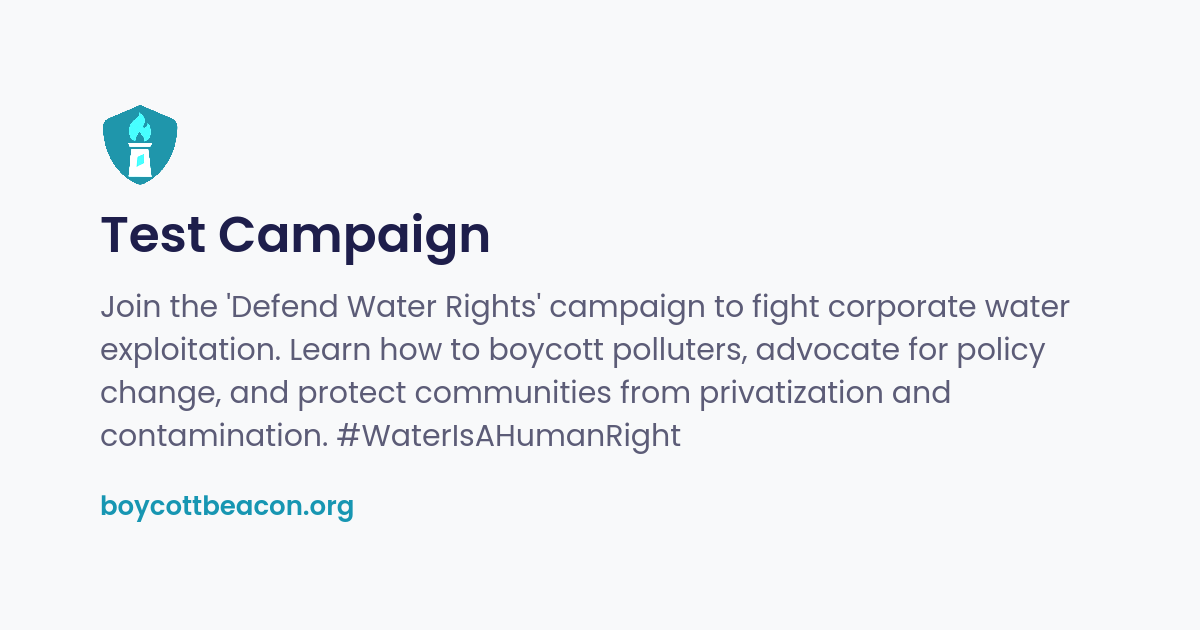
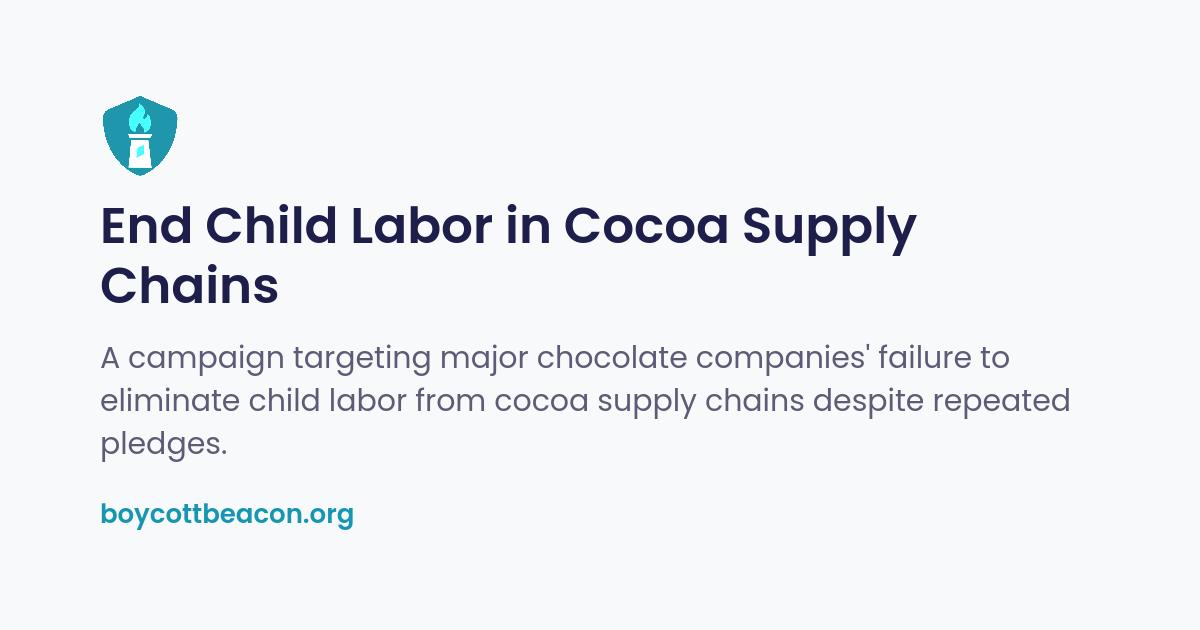
Update campaign.json

diff --git a/themes/boycott-beacon/layouts/campaigns/single.html b/themes/boycott-beacon/layouts/campaigns/single.html
@@ -161,7 +161,6 @@
             </div>
           </div>
         </div>
-
         <!-- Campaign Author -->
         {{ if .Params.author }}
         <div class="author-card mb-4">
@@ -170,7 +169,7 @@
               <h5 class="card-title mb-3">Campaign Author</h5>
               <div class="d-flex align-items-center mb-3">
                 {{ if .Params.author_image }}
-                <img src="{{ .Params.author_image | absURL }}"
+                <img src="{{ .Params.author_image }}"
                      class="rounded-circle mr-3"
                      width="60"
                      height="60"
@@ -187,7 +186,7 @@
               {{ if .Params.author_socials }}
               <div class="social-links mt-2">
                 {{ range .Params.author_socials }}
-                <a href="{{ .link }}" target="_blank" class="btn btn-sm btn-outline-secondary mr-2 mb-2">
+                <a href="{{ .link }}" target="_blank" rel="noopener noreferrer" class="btn btn-sm btn-outline-secondary mr-2 mb-2">
                   <i class="ti-{{ .platform }}"></i> {{ .name }}
                 </a>
                 {{ end }}
@@ -198,42 +197,51 @@
         </div>
         {{ end }}
 
-        <!-- Supporting Organizations -->
+        <!-- Supporting Organizations (Handling Multiple Orgs) -->
         {{ if .Params.supporting_orgs }}
-        <div class="orgs-card">
+        <div class="orgs-card mb-4"> <!-- Consistent spacing -->
           <div class="card border-0 shadow-sm">
             <div class="card-body p-4">
               <h5 class="card-title mb-3">Supported By</h5>
-              <div class="orgs-list">
-                {{ range .Params.supporting_orgs }}
-                <div class="org-item mb-3">
-                  {{ if .logo }}
-                  <img src="{{ .logo | absURL }}"
-                       class="img-fluid mb-2"
-                       style="max-height: 40px;"
-                       alt="{{ .name }}">
+              <!-- Loop through each organization -->
+              {{ range $index, $org := .Params.supporting_orgs }}
+              <!-- Add separator for items after the first -->
+              <div class="org-item {{ if gt $index 0 }}mt-4 pt-4 border-top{{ end }}">
+                <!-- Use d-flex similar to author -->
+                <div class="d-flex align-items-center mb-3">
+                  {{ if $org.logo }}
+                  <img src="{{ $org.logo }}"
+                       class="mr-3 org-logo"
+                       style="max-width: 80px; max-height: 60px; object-fit: contain;"
+                       alt="{{ $org.name }}">
                   {{ end }}
-                  <h6 class="mb-1">{{ .name }}</h6>
-                  <div class="org-links">
-                    {{ if .website }}
-                    <a href="{{ .website }}" target="_blank" class="btn btn-sm btn-outline-primary mr-2">
-                      <i class="ti-world"></i> Website
-                    </a>
-                    {{ end }}
-                    {{ if .discord }}
-                    <a href="{{ .discord }}" target="_blank" class="btn btn-sm btn-outline-primary">
-                      <i class="ti-comments"></i> Discord
-                    </a>
-                    {{ end }}
+                  <div>
+                    <h6 class="mb-1">{{ $org.name }}</h6>
+                    <!-- Optional tagline could go here -->
                   </div>
                 </div>
-                {{ end }}
-              </div>
+
+                <!-- Links section, styled like author's social links -->
+                <div class="org-links mt-2">
+                  {{ if $org.website }}
+                  <a href="{{ $org.website }}" target="_blank" rel="noopener noreferrer" class="btn btn-sm btn-outline-secondary mr-2 mb-2">
+                    <i class="ti-world"></i> Website
+                  </a>
+                  {{ end }}
+                  {{ if $org.discord }}
+                  <a href="{{ $org.discord }}" target="_blank" rel="noopener noreferrer" class="btn btn-sm btn-outline-secondary mr-2 mb-2">
+                    <i class="ti-comments"></i> Discord
+                  </a>
+                  {{ end }}
+                  <!-- Add more links here if needed -->
+                </div>
+              </div> <!-- End org-item -->
+              {{ end }} <!-- End range loop -->
             </div>
           </div>
         </div>
-        {{ end }}
-      </div>
+        {{ end }} <!-- End supporting_orgs check -->
+      </div> <!-- Make sure this closing div matches your overall structure -->
 
     </div>
   </div>

diff --git a/themes/boycott-beacon/layouts/campaigns/list.html b/themes/boycott-beacon/layouts/campaigns/list.html
@@ -1,37 +1,61 @@
 {{ define "main" }}
 
-<!-- notice -->
 <section class="section">
   <div class="container">
-    <div class="row">
-      <div class="col-12">
-        <ul class="list-unstyled">
-
-          <!-- notice item -->
-          {{ range .Data.Pages }}
-
-          <li class="row g-0 mb-4 hover-shadow align-items-center">
-
-            <!-- Title and Description -->
-            <div class="col-12 col-md-9 p-4">
-              <a href="{{ .Permalink }}" class="h4 mb-3 d-block">{{ .Title }}</a>
-              <p class="mb-0">{{ .Description }}</p>
-            </div>
-
-            <!-- Download Button and File Type Icon -->
-            <div class="col-12 col-md-3 text-center p-4">
-              <a href="{{ .Permalink }}" class="btn btn-primary btn-lg w-100 d-flex align-items-center justify-content-center">
-                Details
-              </a>
-            </div>
-          </li>
-
-          {{ end }}
-        </ul>
+    <div class="row mb-5">
+      <div class="col-12 text-center">
+        <h2 class="section-title">Explore Boycott Campaigns</h2>
+        <p class="lead">{{ .Description | default "Browse active campaigns and learn more about their goals and targets." }}</p>
       </div>
     </div>
+
+    <div class="row">
+      {{ $paginator := .Paginate .Data.Pages }}
+      {{ range $paginator.Pages }}
+      {{/* Use 3 columns on lg and md, 2 on sm */}}
+      <div class="col-lg-4 col-md-4 col-sm-6 mb-4 d-flex align-items-stretch">
+        <a href="{{ .Permalink }}" class="card campaign-card-link rounded-0 w-100 hover-shadow text-decoration-none">
+
+          {{/* --- Image Handling: Look for og.png within the page bundle --- */}}
+          {{ $ogImageResource := .Resources.GetMatch "og.png" }}
+
+          {{ if $ogImageResource }}
+          {{/* Resize based on width, height is proportional. Choose a width slightly larger than needed for quality. */}}
+          {{ $resized := $ogImageResource.Resize "600x q90" }} {{/* <<< CHANGED: Use .Resize, e.g., 600px wide */}}
+          <img src="{{ $resized.RelPermalink }}" class="card-img-top campaign-card-image rounded-0" alt="{{ .Title }} campaign preview"> {{/* Added campaign-card-image class */}}
+          {{ else }}
+          {{/* Placeholder if og.png is not found */}}
+          <div class="card-img-top campaign-card-image-placeholder rounded-0 bg-light d-flex align-items-center justify-content-center"> {{/* Added placeholder class */}}
+            <i class="ti-flag-alt-2" style="font-size: 50px; color: #ccc;"></i>
+          </div>
+          {{ end }}
+          {{/* --- End Image Handling --- */}}
+
+          <div class="card-body d-flex flex-column">
+            <h5 class="card-title mb-2">{{ .Title }}</h5>
+            <p class="card-text small text-muted flex-grow-1">{{ .Description | truncate 120 }}</p>
+
+            {{ with .Params.tags }}
+            <div class="mt-auto pt-2">
+              {{ range . }}
+              <span class="badge badge-light mr-1 mb-1">{{ . }}</span>
+              {{ end }}
+            </div>
+            {{ end }}
+          </div>
+        </a>
+      </div>
+      {{ end }}
+    </div>
+
+    <!-- Pagination -->
+    <div class="row mt-4">
+      <div class="col-12">
+        {{ template "_internal/pagination.html" . }}
+      </div>
+    </div>
+
   </div>
 </section>
-<!-- /notice -->
 
 {{ end }}

diff --git a/themes/boycott-beacon/assets/scss/templates/_campaign-list.scss b/themes/boycott-beacon/assets/scss/templates/_campaign-list.scss
@@ -1,0 +1,73 @@
+// In _common.scss or _campaign-list.scss
+
+.campaign-card-link {
+  display: block; // Ensure the link behaves like a block element
+  color: inherit; // Inherit text color, don't use default link blue
+  transition: all 0.2s ease-in-out; // Smooth transition for hover
+
+  &:hover {
+    color: inherit; // Keep text color consistent on hover
+    text-decoration: none; // Remove underline on hover
+    // The .hover-shadow class should already provide shadow effects
+  }
+
+  .card-img-top {
+    // Ensure images behave well, especially if resizing differs
+    object-fit: cover;
+    height: 225px; // Match the resize height for consistency
+  }
+
+  .card-body {
+    // Ensures the card body tries to take up available space if cards
+    // in a row naturally have different content heights due to text wrapping.
+    // The d-flex align-items-stretch on the column div helps enforce equal height overall.
+  }
+
+  .badge-light { // Style the tags slightly
+    background-color: $light; // Use theme's light variable
+    color: $text-color;      // Use theme's standard text color
+    font-weight: 500;
+    padding: 0.3em 0.6em;
+  }
+}
+// In _campaign-list.scss or _common.scss
+
+.campaign-card-link {
+  display: block;
+  color: inherit;
+  transition: all 0.2s ease-in-out;
+
+  &:hover {
+    color: inherit;
+    text-decoration: none;
+  }
+
+  .card-img-top { // General style for card images within the link
+    width: 100%;   // Make image fill the width of the card container
+  }
+
+  .campaign-card-image { // Specific class for the image from Hugo
+    height: 210px; // <<< SET A FIXED HEIGHT (adjust value as needed for desired look)
+    // 210px roughly matches the 1.9:1 aspect ratio at 400px width.
+    // You could use 225px if you prefer the 16:9 height, but it will crop slightly top/bottom now.
+    object-fit: cover; // <<< Scales image to maintain aspect ratio while filling the height. Will crop top/bottom if needed.
+    // Use `object-fit: contain;` if you prefer letterboxing instead of cropping to show the whole image.
+  }
+
+  .campaign-card-image-placeholder { // Style the placeholder div
+    height: 210px; // <<< MATCH THE HEIGHT of the actual image style above
+    width: 100%;   // Ensure it takes full width
+  }
+
+
+  .card-body {
+    // d-flex flex-column already handles basic structure
+  }
+
+  .badge-light {
+    background-color: $light;
+    color: $text-color;
+    font-weight: 500;
+    padding: 0.3em 0.6em;
+  }
+}

diff --git a/themes/boycott-beacon/assets/scss/main.scss b/themes/boycott-beacon/assets/scss/main.scss
@@ -28,3 +28,4 @@ VERSION:	Versoin Number
 @import 'templates/campaign-single';
 @import 'templates/cookie-consent';
 @import 'templates/team-card';
+@import 'templates/campaign-list';

diff --git a/content/english/campaigns/campaign-2/index.md b/content/english/campaigns/campaign-2/index.md
@@ -1,46 +1,63 @@
 ---
-title: "Test Campaign"
-date: 2024-03-15T10:00:00+06:00
+title: "End Child Labor in Cocoa Supply Chains"
+date: 2023-10-01T00:00:00+00:00
 draft: false
-# meta description
-description: "Join the 'Defend Water Rights' campaign to fight corporate water exploitation. Learn how to boycott polluters, advocate for policy change, and protect communities from privatization and contamination. #WaterIsAHumanRight"
-# notice download link (optional JSON of targeted companies)
-author: "Jane Doe"
-author_title: "Environmental Activist"
-author_image: "images/authors/jane-doe.jpg"
+description: "A campaign targeting major chocolate companies' failure to eliminate child labor from cocoa supply chains despite repeated pledges."
+image: "og.png"
+tags: ["child-labor", "cocoa", "west-africa", "supply-chain"]
+author: "Cocoa Justice Collective"
+author_title: "Ethical Supply Chain Advocates"
+author_image: "author.png"
 author_socials:
   - platform: "twitter"
     name: "Twitter"
-    link: "https://twitter.com/janedoe"
+    link: "https://twitter.com/cocoajustice"
   - platform: "linkedin"
     name: "LinkedIn"
-    link: "https://linkedin.com/in/janedoe"
+    link: "https://linkedin.com/company/cocoa-justice"
 
 supporting_orgs:
-  - name: "Climate Action Now"
-    logo: "images/orgs/climate-action.png"
-    website: "https://climateaction.org"
-    discord: "https://discord.gg/climateaction"
+  - name: "Global Child Rights Foundation"
+    logo: "supportedby.png"
+    website: "https://www.example.org/gcrf"
+  - name: "Ethical Trade Alliance"
+    logo: "supportedby.png"
+    website: "https://www.example.org/ethicaltrade"
 ---
 
 ### About
 
-The **"Defend Water Rights"** campaign exposes corporations that prioritize profit over people by exploiting public water resources. From draining aquifers in drought-stricken regions to contaminating drinking water with toxic chemicals, these companies jeopardize ecosystems and human health. This movement empowers communities to take action through boycotts, advocacy, and education.
+The **"End Child Labor in Cocoa Supply Chains"** campaign exposes the chocolate industry's ongoing exploitation of children in West African cocoa farms. Despite two decades of promises, major manufacturers continue to profit from child labor in their supply chains.
 
 ### Key Issues
 
-- **Privatization**: Companies like Nestlé (BlueTriton) extract millions of gallons of water for bottled products, often at the expense of local communities.
-- **Pollution**: Chemical giants (DuPont, Dow) have contaminated water supplies with PFAS and other toxins.
-- **Over-Extraction**: Beverage corporations (Coca-Cola, PepsiCo) exacerbate water scarcity in vulnerable areas.
+- **Unfulfilled Commitments**: The industry has missed every deadline to eliminate child labor since 2005
+- **Dangerous Work Environments**: Children perform hazardous agricultural work instead of attending school
+- **Systemic Issues**: Complex supply chains enable companies to avoid responsibility
+
+### Evidence
+
+Documented cases include:
+- Minors performing dangerous tasks like clearing brush with machetes
+- Exposure to agricultural chemicals without protective equipment
+- Debt bondage situations trapping families in cycles of exploitation
+- Widespread lack of educational opportunities in cocoa-growing regions
 
 ### How to Participate
 
-1. **Boycott**: Avoid products from implicated companies (see [downloadable list](#)).
-2. **Advocate**: Support legislation like the **Water Affordability, Transparency, and Equity (WATE) Act**.
-3. **Educate**: Share resources on social media with #WaterIsAHumanRight.
+1. **Consumer Action**: Use our [brand guide](#) to make ethical purchasing decisions
+2. **Policy Support**: Contact legislators about the **Child-Free Cocoa Act**
+3. **Awareness**: Share #NoChildLaborCocoa on social media
 
 ### Campaign Demands
 
-- **Transparency**: Public disclosure of corporate water usage and impacts.
-- **Restitution**: Cleanup of polluted water sources and compensation for affected communities.
-- **Policy Change**: Bans on water extraction in drought zones and stricter pollution fines.
+- **Supply Chain Reform**: Implement and fund rigorous monitoring systems
+- **Corporate Transparency**: Publish verified supply chain audits annually
+- **Community Investment**: Fund education and youth programs in cocoa regions
+- **Third-Party Verification**: Establish independent monitoring bodies
+
+### Supporting Research
+
+- [Industry Progress Report 2023](https://www.example.org/cocoa-report) (Global Monitoring Group)
+- [Behind the Chocolate Bar](https://www.example.org/chocolate-investigation) (Journal of Ethical Commerce)
+- [Corporate Social Responsibility Review](https://www.example.org/csr-cocoa) (International Trade Institute)

diff --git a/content/english/campaigns/campaign-1/index.md b/content/english/campaigns/campaign-1/index.md
@@ -4,10 +4,12 @@ date: 2024-03-15T10:00:00+06:00
 draft: false
 # meta description
 description: "A campaign to hold corporations accountable for water privatization, pollution, and over-extraction."
+image: "og.png" 
+tags: ["environment", "water-rights", "corporate-accountability", "nestle", "pepsi", "coke"]
 # notice download link (optional JSON of targeted companies)
 author: "Jane Doe"
 author_title: "Environmental Activist"
-author_image: "images/authors/jane-doe.jpg"
+author_image: "author.png"
 author_socials:
   - platform: "twitter"
     name: "Twitter"
@@ -18,7 +20,7 @@ author_socials:
 
 supporting_orgs:
   - name: "Climate Action Now"
-    logo: "images/orgs/climate-action.png"
+    logo: "supportedby.png"
     website: "https://climateaction.org"
     discord: "https://discord.gg/climateaction"
 ---
